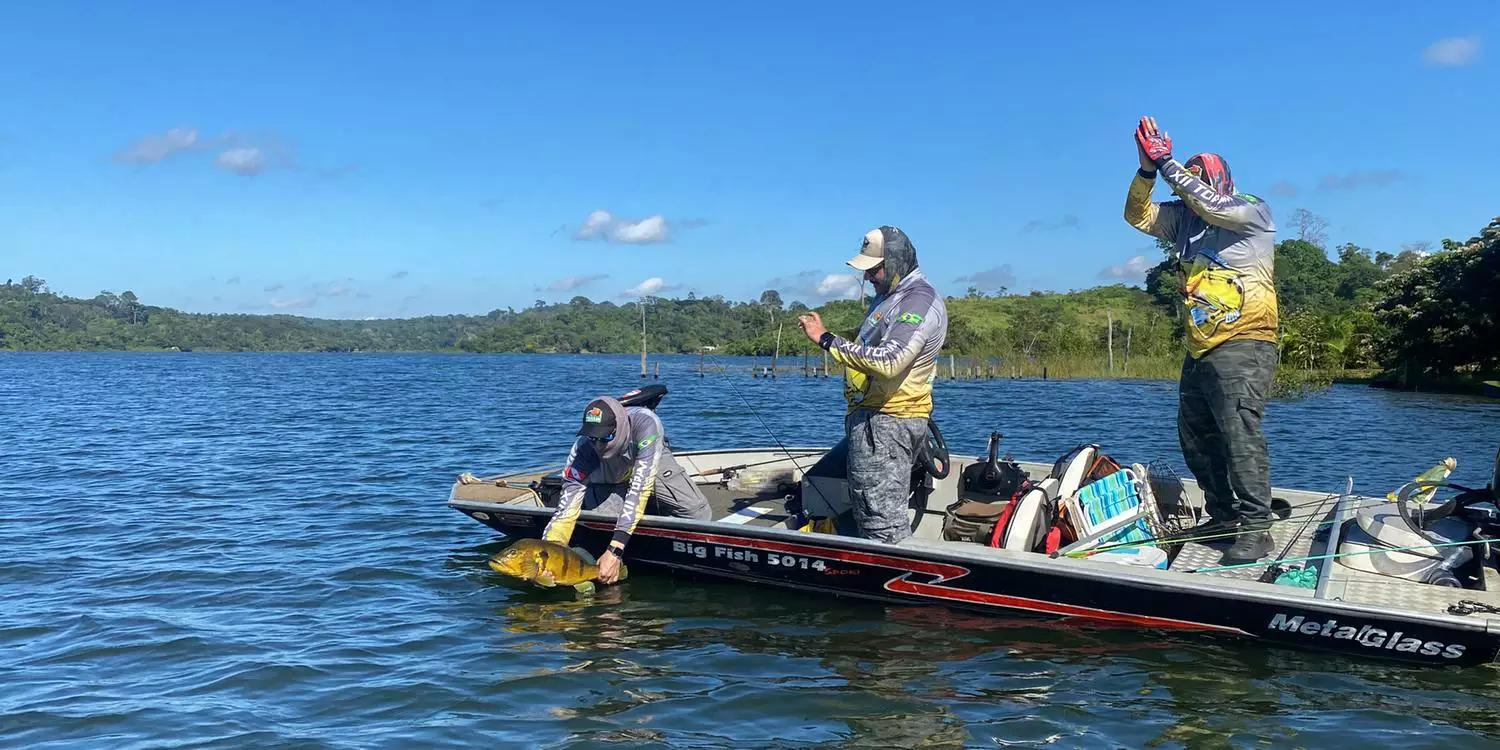
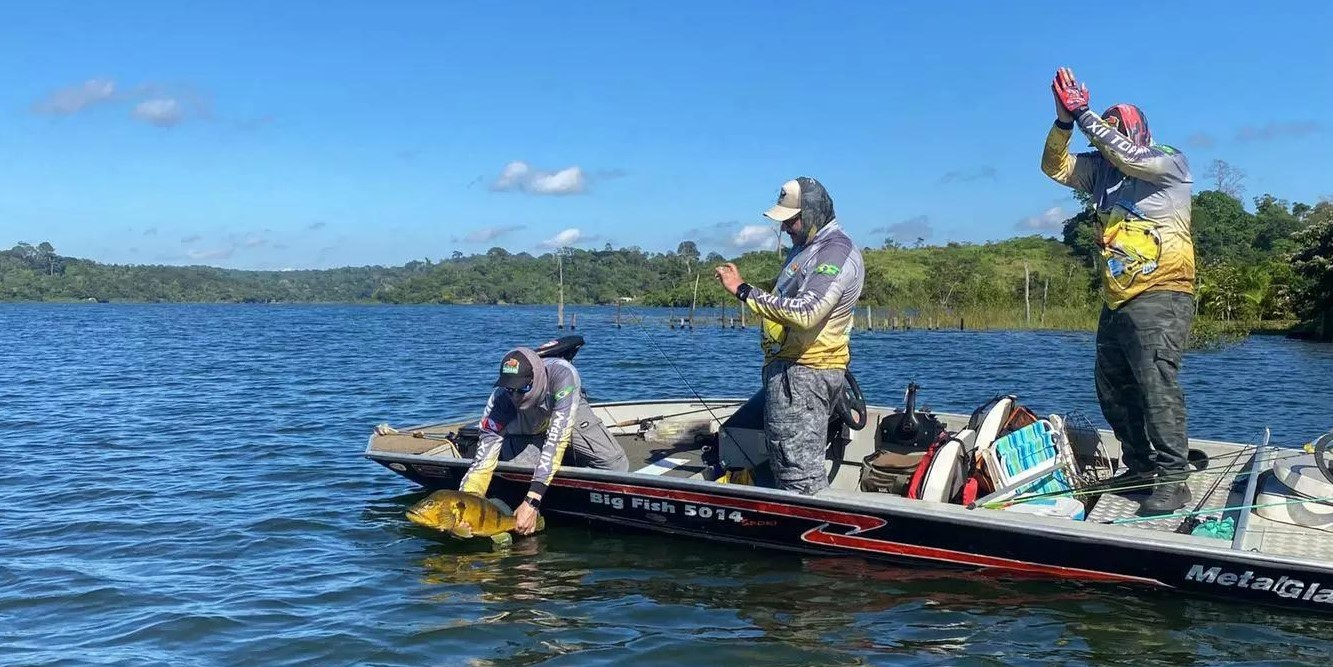
Slideshow na pagina index

diff --git a/index.html b/index.html
@@ -41,6 +41,21 @@
         <div class="bannerbox">
             <p class="titulo">Pescaria esportiva: Aprenda sobre o esporte que mais cresce no Brasil!</p>
         </div>
+        <div class="slide active">
+            <img src="./assets/pescaesoportiva.jpg" alt="">
+        </div>
+        <div class="slide">
+            <img src="./assets/pintado_msS2.jpg" alt="">
+        </div>
+        <div class="slide">
+            <img src="./assets/pirararaS3.jpg" alt="">
+        </div>
+        <div class="slide">
+            <img src="./assets/rioparaguaiS4.jpg" alt="">
+        </div>
+        <div class="slide">
+            <img src="./assets/dourado_rioaquidauanaS5.jpg" alt="">
+        </div>
     </div>
     <div class="bg">
 
@@ -108,3 +123,17 @@
 </body>
 
 </html>
+<script>
+    document.addEventListener("DOMContentLoaded", function() {
+    let slides = document.querySelectorAll('.slide');
+    let currentSlide = 0;
+
+    function nextSlide() {
+        slides[currentSlide].classList.remove('active');
+        currentSlide = (currentSlide + 1) % slides.length;
+        slides[currentSlide].classList.add('active');
+    }
+
+    setInterval(nextSlide, 5000); // Altera a cada 5 segundos (5000 milissegundos)
+});
+</script>

diff --git a/style_index.css b/style_index.css
@@ -30,6 +30,7 @@ body{
     background-color:#002776;
     display: flex;
     position: fixed;
+    z-index: 998;
 }
 .navbar{
     width: 95%;
@@ -75,14 +76,29 @@ body{
     font-weight: 800;
 }
 .banner{
+    position: relative;
     width: 100%;
     height: 95vh;
-    display: flex;
-    flex-direction: row;
+    overflow: hidden;
     align-items: flex-end;
-    justify-content: start;
-    background-image: url(assets/pescaesoportiva.jpg);
-    background-size: cover;
+    margin-top: 75px;
+    z-index: 1;
+}
+.slide {
+    position: absolute;
+    top: 0;
+    left: 0;
+    width: 100%;
+    height: 100%;
+    opacity: 0;
+    transition: opacity 1s ease;
+}
+.slide img{
+    width: 100vw;
+    height: auto;
+}
+.active {
+    opacity: 1;
 }
 .containercirculo{
     display: flex;
@@ -139,12 +155,15 @@ body{
 }
 .bannerbox{
     display: flex;
+    position: absolute;
+    bottom: 0;
     width: 43%;
     height: fit-content;
     background-color: rgba(183, 255, 255, 0.3);
     float: left;
     border-radius: 15px;
     padding: 15px;
+    z-index: 999 ;
 }
 .banner .titulo{
     font-size: 40px;
